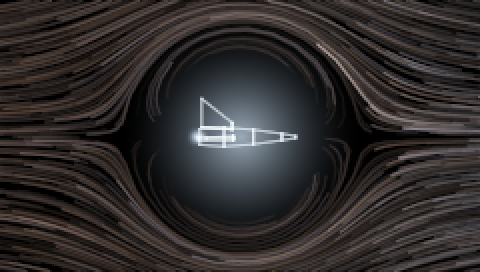
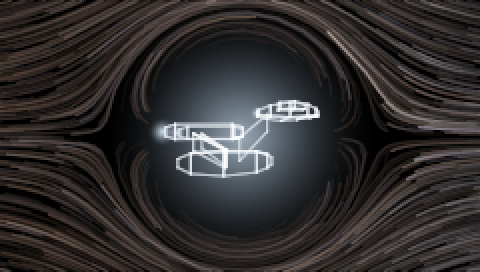
Add the Enterprise, and fly it by default
Saucer, neck, engineering hull, two nacelles on swept pylons — a
wireframe bow to the ship every warp drive since has been drawn against,
and the obvious thing to be looking at from outside one.

It is built as a profile, because that is the only view this camera
gives, and the profile is three masses stacked in a particular order:
saucer highest and furthest forward, nacelles below and well aft of it,
engineering hull slung underneath on a neck that leans forward. That
ordering is the whole model. The first two attempts had every line in
the right place and the nacelles towering over the saucer, and what came
out was a plausible ship that was not this one.

Two numbers moved to make room for it. Hulls now take 0.28 of the canvas
height from nose to centre rather than 0.20: a saucer at the old size
came out a single subpixel thick on a thirty-row terminal, which is a
line and not a shape. The warp bubble grew to match, so that it still
holds the ship with room to spare rather than bending the sky through
it. Both are better for the other four hulls too — none of them was
gaining anything from being small.

The cockpit view is untouched, and the reference frames still hash to
what is committed.

Claude-Session: https://claude.ai/code/session_01KoKJe51pxvVzL9LpuxDXpL

diff --git a/src/models.rs b/src/models.rs
@@ -215,16 +215,105 @@ fn engine(at: [f32; 3], radius: f32) -> Engine {
 /// Every ship, in the order the picker lists them.
 pub fn models() -> &'static [ShipModel] {
     static MODELS: OnceLock<Vec<ShipModel>> = OnceLock::new();
-    MODELS.get_or_init(|| vec![dart(), hauler(), needle(), beetle(), trident()])
+    MODELS.get_or_init(|| {
+        vec![
+            enterprise(),
+            dart(),
+            hauler(),
+            needle(),
+            beetle(),
+            trident(),
+        ]
+    })
 }
 
-/// The one flown when nothing has said otherwise.
+/// The one flown when nothing has said otherwise: the first in the list.
 pub const DEFAULT_MODEL: usize = 0;
 
 /// Look a ship up by the name `--ship` and the picker use.
 pub fn by_name(name: &str) -> Option<usize> {
     let name = name.trim().to_ascii_lowercase();
     models().iter().position(|m| m.name == name)
+}
+
+/// Saucer, neck, engineering hull, two nacelles on swept pylons — a wireframe
+/// bow to the ship every warp drive since has been drawn against.
+///
+/// It is designed as a *profile*, because that is the only view this camera
+/// gives, and the profile is three masses stacked in a particular order: the
+/// saucer highest and furthest forward, the nacelles just below and well aft of
+/// it, and the engineering hull slung underneath on a neck that leans forward.
+/// Get that stacking wrong — nacelles above the saucer, say — and every line is
+/// still in the right place while the ship stops being this ship. Seen from the
+/// beam the two nacelles line up into one, which is the silhouette everybody
+/// already has in mind, and the reason this hull is the one flown by default.
+///
+/// Everything vertical is drawn thicker than scale. The whole ship is a little
+/// over half the canvas height long, so on a thirty-row terminal one unit here
+/// is about twenty subpixels, and an honest saucer would come out a single
+/// subpixel thick — a line, not a shape.
+fn enterprise() -> ShipModel {
+    let mut b = Builder::default();
+    // The saucer: widest across the middle, and about as long as it is wide, so
+    // from above it would read as the disc it is. Deliberately thin — a saucer
+    // as deep as a nacelle reads as a third nacelle — with the bridge dome
+    // above it doing the work of saying which way up the ship goes.
+    b.shell(&[
+        Section::offset(0.22, 0.0, -0.31, 0.12, 0.032),
+        Section::offset(0.36, 0.0, -0.32, 0.30, 0.065),
+        Section::offset(0.58, 0.0, -0.32, 0.42, 0.085),
+        Section::offset(0.80, 0.0, -0.32, 0.36, 0.070),
+        Section::offset(0.94, 0.0, -0.31, 0.19, 0.044),
+        Section::offset(1.00, 0.0, -0.30, 0.05, 0.024),
+    ]);
+    b.shell(&[
+        Section::offset(0.50, 0.0, -0.40, 0.10, 0.040),
+        Section::offset(0.68, 0.0, -0.41, 0.13, 0.048),
+        Section::offset(0.82, 0.0, -0.39, 0.08, 0.030),
+    ]);
+    // The neck, leaning forward as it climbs from the engineering hull.
+    b.shell(&[
+        Section::offset(-0.02, 0.0, 0.16, 0.055, 0.15),
+        Section::offset(0.34, 0.0, -0.18, 0.05, 0.11),
+    ]);
+    // The engineering hull, slung below and aft, with the deflector at its
+    // forward end.
+    b.shell(&[
+        Section::offset(-0.82, 0.0, 0.34, 0.055, 0.055),
+        Section::offset(-0.64, 0.0, 0.34, 0.12, 0.13),
+        Section::offset(-0.22, 0.0, 0.34, 0.145, 0.155),
+        Section::offset(0.20, 0.0, 0.32, 0.12, 0.13),
+        Section::offset(0.34, 0.0, 0.31, 0.08, 0.085),
+        Section::offset(0.40, 0.0, 0.31, 0.04, 0.045),
+    ]);
+    for side in [-1.0f32, 1.0] {
+        // Pylons, reaching out, up and aft all at once: the strut is what makes
+        // the gap between hull and nacelle read as a gap rather than as a join.
+        b.plate(
+            Section::offset(-0.56, side * 0.40, 0.06, 0.035, 0.10),
+            Section::offset(-0.20, side * 0.10, 0.28, 0.045, 0.11),
+        );
+        // Nacelles: below the saucer's plane and well behind it, which is the
+        // half of the stacking that says this is not a flying saucer with an
+        // engine bolted on.
+        b.shell(&[
+            Section::offset(-0.88, side * 0.42, -0.06, 0.050, 0.050),
+            Section::offset(-0.76, side * 0.42, -0.06, 0.080, 0.085),
+            Section::offset(-0.10, side * 0.42, -0.06, 0.080, 0.085),
+            Section::offset(0.02, side * 0.42, -0.06, 0.050, 0.055),
+        ]);
+    }
+    b.finish(
+        "enterprise",
+        "Heavy cruiser. Saucer, neck, and two nacelles.",
+        [0.82, 0.90, 1.00],
+        vec![
+            engine([-0.42, -0.06, -0.92], 0.11),
+            engine([0.42, -0.06, -0.92], 0.11),
+            // Impulse, out of the back of the saucer, and much the smaller.
+            engine([0.0, -0.31, 0.21], 0.07),
+        ],
+    )
 }
 
 /// A knife with a fin: all nose and engine, nothing spare.

diff --git a/src/view.rs b/src/view.rs
@@ -10,7 +10,10 @@
 /// is the shot, where a wide one would splay it into a three-quarter view.
 pub const SIDE_FOCAL: f32 = 1.15;
 /// Half the ship's length on screen, as a fraction of the canvas height.
-pub const SHIP_SCREEN_FRAC: f32 = 0.20;
+/// Big enough that a hull with a saucer, a neck and two nacelles still has
+/// them at this resolution, and small enough to leave the warp bubble room to
+/// bend the sky around it.
+pub const SHIP_SCREEN_FRAC: f32 = 0.28;
 /// Range from the side camera to the ship. This falls out as a constant
 /// because the focal length is proportional to the canvas height, so the ship
 /// is the same fraction of the frame on a phone-sized terminal and a wall.

diff --git a/src/lens.rs b/src/lens.rs
@@ -43,9 +43,10 @@ const REACH: f32 = 10.0;
 const SHADOW_FRAC: f32 = 0.72;
 
 /// Fraction of the canvas height the Einstein radius reaches at full warp.
-/// Sized so the ring sits just outside the hull rather than inside it: the
-/// point is to see the sky bend *around* the ship.
-const RADIUS_AT_WARP: f32 = 0.42;
+/// Sized against the hull rather than by eye: the ship is 0.28 of the canvas
+/// height from nose to centre, and the bubble has to hold it with room to
+/// spare, or the sky bends *through* the ship instead of around it.
+const RADIUS_AT_WARP: f32 = 0.48;
 
 /// A thin point-mass lens sitting on the canvas.
 #[derive(Debug, Clone, Copy)]

diff --git a/src/cli.rs b/src/cli.rs
@@ -99,7 +99,7 @@ pub struct Args {
     pub view: ViewArg,
 
     /// Which ship to fly. Only visible from outside; `M` opens the picker.
-    #[arg(long, value_name = "NAME", default_value = "dart", value_parser = parse_ship)]
+    #[arg(long, value_name = "NAME", default_value = "enterprise", value_parser = parse_ship)]
     pub ship: usize,
 
     /// Tonemap exposure. Higher is brighter.

diff --git a/README.md b/README.md
@@ -112,14 +112,23 @@ already, and moving through the list flies each ship rather than naming it:
 
 | Ship | |
 | --- | --- |
+| `enterprise` | Heavy cruiser. Saucer, neck, and two nacelles. The default. |
 | `dart` | Interceptor. All nose and engine. |
 | `hauler` | Bulk freighter. Slow, and does not care. |
 | `needle` | Survey probe. Mostly sensor. |
 | `beetle` | Gunship. Built round its own armour. |
 | `trident` | Line warship. Three drives, one spine. |
 
-Each is a closed solid of a few dozen plates, drawn as a wireframe with the far
-side culled, so the silhouette reads rather than the cage. There is no depth
+The default is a wireframe bow to the ship every warp drive since has been drawn
+against — saucer, neck, engineering hull, two nacelles on swept pylons. It is
+built as a *profile*, because that is the only view this camera gives, and the
+profile is three masses stacked in a particular order: saucer highest and
+furthest forward, nacelles below and well aft, engineering hull slung underneath.
+Get the stacking wrong and every line is still in the right place while the ship
+stops being that ship.
+
+Each hull is a closed solid of a few dozen plates, drawn as a wireframe with the
+far side culled, so the silhouette reads rather than the cage. There is no depth
 buffer anywhere: the star band's near wall sits well beyond the ship, so nothing
 can pass in front of it, and a plate pointing away from the camera is simply not
 drawn.
